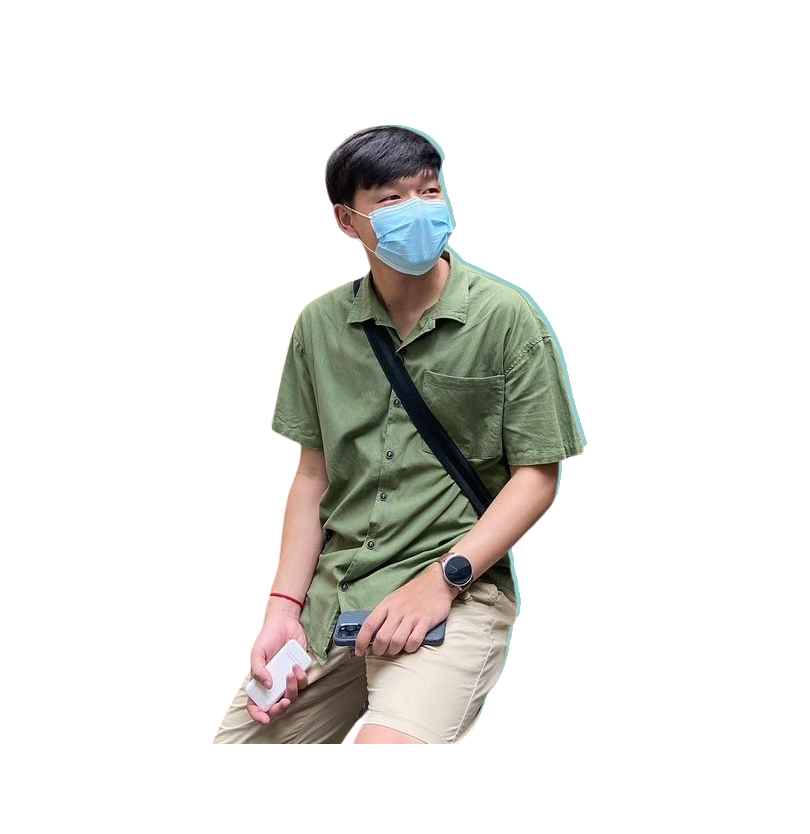
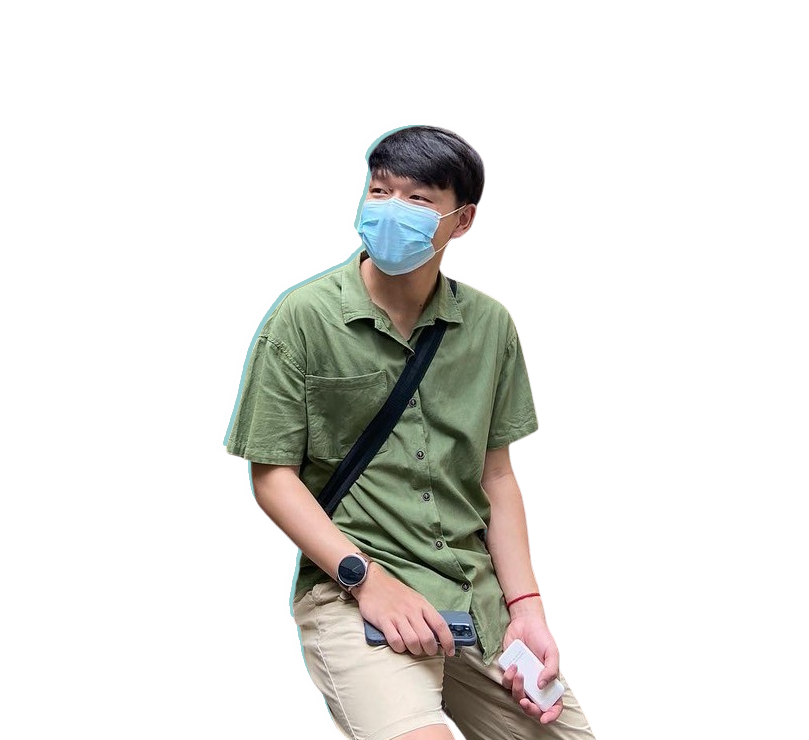
update contact

Changed region(s): [[0.2472, 0.1243, 0.7417, 1.0]]

diff --git a/src/components/aboutme/aboutme.jsx b/src/components/aboutme/aboutme.jsx
@@ -1,6 +1,11 @@
 import "./aboutme.scss";
 import profile from "./profile3.png";
 import React, { useState } from "react";
+import {
+  AiOutlineLinkedin,
+  AiOutlineFacebook,
+  AiOutlineGithub,
+} from "react-icons/ai";
 
 function AboutMe() {
   const [showAboutMe, setShowAboutMe] = useState(true);
@@ -8,46 +13,70 @@ function AboutMe() {
     <div className="content">
       <div className="aboutme">
         <div className="circle"></div>
-        <img src={profile} className="clipped" />
         <div className="text">
           <h1>
             Hi there !
             <br />
             My name is <span>Jiroge Saeying</span>
           </h1>
-
-          <button
-            href="./Jiroge.pdf"
-            target="_blank"
-            className="buttonST"
-          >
+          <button href="./Jiroge.pdf" target="_blank" className="buttonST">
             RESUME
           </button>
           <button
-          className="buttonST"
-          onClick={() => {
-            setShowAboutMe(!showAboutMe);
-          }}
-        >
-          ABOUT ME
-        </button>
+            className="buttonST"
+            onClick={() => {
+              setShowAboutMe(!showAboutMe);
+            }}
+          >
+            ABOUT ME
+          </button>
+          <div className="socialContact">
+            <a href="https://web.facebook.com/JoeJiroge" target="_blank">
+              <AiOutlineFacebook
+                size={50}
+                color="#b0c6d9"
+                onMouseOver={({ target }) => (target.style.color = "white")}
+                onMouseOut={({ target }) => (target.style.color = "#b0c6d9")}
+              />
+            </a>
+            <a
+              href="https://www.linkedin.com/in/jiroge-saeying-2ab10b218/"
+              target="_blank"
+            >
+              <AiOutlineLinkedin
+                size={50}
+                color="#b0c6d9"
+                onMouseOver={({ target }) => (target.style.color = "white")}
+                onMouseOut={({ target }) => (target.style.color = "#b0c6d9")}
+              />
+            </a>
+            <a href="https://github.com/Jiroge" target="_blank">
+              <AiOutlineGithub
+                size={50}
+                color="#b0c6d9"
+                onMouseOver={({ target }) => (target.style.color = "white")}
+                onMouseOut={({ target }) => (target.style.color = "#b0c6d9")}
+              />
+            </a>
+          </div>
         </div>
+        <img src={profile} className="clipped" />
       </div>
-      {showAboutMe ? (
-        null
-      ) : (
+
+      {showAboutMe ? null : (
         <p className="details">
           I formerly worked in a factory that exported fruit to China.
-          Technology and career path are two of my interests. I was given the opportunity to study the{" "}
+          Technology and career path are two of my interests. I was given the
+          opportunity to study the{" "}
           <span href="https://thailand.generation.org/" target="_blank">
             Generation
-          </span>
+          </span>{" "}
           using the MERN stack (MongoDB, Express, React, Nodejs). I was taught
           how to create a website by professionals in the industry. Online
-          courses are also available for independent learning.
-          We do many projects during the boot camp using agile with a scrum
-          framework working groups. In addition, learning a lot while attending
-          the Generation, I also developed my hard skills and soft skills.
+          courses are also available for independent learning. We do many
+          projects during the boot camp using agile with a scrum framework
+          working groups. In addition, learning a lot while attending the
+          Generation, I also developed my hard skills and soft skills.
         </p>
       )}
     </div>

diff --git a/src/components/aboutme/aboutme.scss b/src/components/aboutme/aboutme.scss
@@ -20,7 +20,14 @@
         color: #ffffff;
         line-height: 30px;
         width: 850px;
-        margin: 20px auto 20px auto;
+        margin: 0px auto 20px auto;
+        text-align: justify;
+        z-index: 2;
+        background-color: #474f59;
+        &:after {
+          content: "";
+          display: inline-block;
+        }
         span {
           font-weight: 700;
           color: rgba(107, 152, 191, 1);
@@ -34,32 +41,28 @@
         display: flex;
         justify-content: center;
         align-items: center;
-        margin: 20px auto;
+        margin: 0px auto;
         padding-top: 20px;
-      //   border: 0.5px solid #474f59;
-        /* width: 80%; */
         .circle {
-          height: 420px;
-          width: 420px;
+          position: absolute;
+          height: 100%;
+          width: 100%;  
           background: #b0c6d9;
-          clip-path: circle(600px at left 850px);
-          z-index: 0;
+          clip-path: circle(550px at right 30px);
+          z-index: 1;
         }
         .clipped {
-          position: absolute;
-          z-index: 1;
-          height: 420px;
-          width: 420px;
-          border-radius: 1em;
-          left: 260px;
+          height: 370px;
+          width: 405px;        
+          z-index: 2;
         }
         .text {
-          z-index: 1;
           margin-left: 20px;
           margin-right: 20px;
           padding: 10px 10px;
           border-radius: 1em;
-         
+          z-index: 2;
+          
           h1 {
             color: #b0c6d9;
             line-height:40px;
@@ -86,6 +89,13 @@
               // padding: 15px;
               // border-radius: 30px;
             }
+          }
+        }
+        .socialContact {
+          display: flex;
+          justify-content: flex-y;
+          a {
+            margin: 5px;
           }
         }
       }

diff --git a/src/App.jsx b/src/App.jsx
@@ -5,44 +5,26 @@ import AboutMe from "./components/aboutme/aboutme";
 import Project from "./components/project/project";
 import Skills from "./components/skills/skills";
 import Experience from "./components/experience/experience";
-import Contact from "./components/contact/contact";
 
 function App() {
   // const [count, setCount] = useState(0)
 
   return (
     <div className="myPort">
-      <div className="containerNavbar">
-        <div className="menu">
-          <ul>
-            <li>
-              <a href="#aboutme">Home</a>
-            </li>
-            <li>
-              <a href="#project">Projects</a>
-            </li>
-            <li>
-              <a href="#skill">Skills</a>
-            </li>
-            {/* <li><a href="#">Activities</a></li> */}
-            <li>
-              <a href="#experience">Experience</a>
-            </li>
-          </ul>
-        </div>
+      <div id="containerNavbar">
+        <Navbar />
       </div>
-      <div className="containerAboutMe" id="aboutme">
+      <div id="containerAboutMe">
         <AboutMe />
       </div>
-      <div className="containerProject" id="project">
+      <div id="containerProject">
         <Project />
       </div>
-      <div className="containerSkill" id="skill">
+      <div id="containerSkill" >
         <Skills />
       </div>
-      <div className="containerExperienceAndContact" id="experience">
+      <div id="containerExperienceAndContact">
         <Experience />
-        <Contact />
       </div>
     </div>
   );

diff --git a/src/App.scss b/src/App.scss
@@ -10,34 +10,35 @@
     background-color: #474f59;
     
 }
-.containerNavbar {
+#containerNavbar {
     font-size: 0.7em;
     top: 0;
     height: 60px;
     display: flex;
-    justify-content: center;
+    justify-content: space-between;
 }
 
-.containerAboutMe {
+#containerAboutMe {
     display: flex;
     justify-content:center;
     font-size: 0.7em;
+    height: 580px;
 }
 
-.containerProject {
+#containerProject {
     display: flex;
     justify-content:center;
     font-size: 1em;
     background-color: #E9EFF2;
 }
 
-.containerSkill {
+#containerSkill {
     display: flex;
     justify-content:center;
     font-size: 1em;
 }
 
-.containerExperienceAndContact {
+#containerExperienceAndContact {
     font-size: 1em;
     background-color:#E9EFF2;
     padding:30px 20px;
@@ -46,29 +47,29 @@
 }
 
 @media (max-width:850px){
-    .containerExperienceAndContact {
+    #containerExperienceAndContact {
         height: 650px;
     }
   }
 @media (max-width:600px){
-    .containerExperienceAndContact {
+    #containerExperienceAndContact {
         height: 700px;
     }
   }
 @media (max-width:500px){
-    .containerExperienceAndContact {
+    #containerExperienceAndContact {
         height: 750px;
     }
   }
 
 @media (max-width:400px){
-    .containerExperienceAndContact {
+    #containerExperienceAndContact {
         height: 800px;
     }
   }
 
   @media (max-width:400px){
-    .containerExperienceAndContact {
+    #containerExperienceAndContact {
         height: 880px;
     }
   }

diff --git a/src/components/navbar/navbar.scss b/src/components/navbar/navbar.scss
@@ -1,0 +1,46 @@
+.menu {
+  margin: auto 0;
+  position: fixed;
+  width: 100%;
+  z-index: 999;
+  background-color: #474f59;
+  display: flex;
+  justify-content: space-between;
+  img {
+    width: auto;
+    height: 60px;
+    margin-left: 50px;
+  }
+  ul {
+    display: flex;
+    padding: 0;
+    list-style: none;
+    justify-content: center;
+    margin-right: 50px;
+    li {
+      padding: 16px;
+      padding: 0;
+      margin: 20px;
+      &:hover {
+        color: white;
+        font-size: 1.1em;
+        transition: 0.3s;
+        text-decoration: underline;
+        transition: 0.5s;
+      }
+      a {
+        text-decoration: none;
+        color: #ffffff;
+        font-size: 2em;
+        font-weight: 100px;
+      }
+    }
+  }
+}
+
+@media (max-width: 750px) {
+  .menu ul li a {
+    font-size: 1.5em;
+    font-weight: 100px;
+  }
+}

diff --git a/src/components/navbar/navbar.jsx b/src/components/navbar/navbar.jsx
@@ -1,13 +1,16 @@
-import './navbar.css'
+import './navbar.scss'
+import logo from "./logo2.png";
+
 function Navbar() {
     return (
         <div className="menu">
+            <img src={logo}/>
             <ul>
-                <li><a href="#">Home</a></li>
-                <li><a href="#">Projects</a></li>
-                <li><a href="#">Skills</a></li>
+                <li><a href="#containerAboutMe">Home</a></li>
+                <li><a href="#containerProject">Projects</a></li>
+                <li><a href="#containerSkill">Skills</a></li>
                 {/* <li><a href="#">Activities</a></li> */}
-                <li><a href="#">Contact</a></li>
+                <li><a href="#containerExperienceAndContact">Contact</a></li>
             </ul>
         </div>
     )
